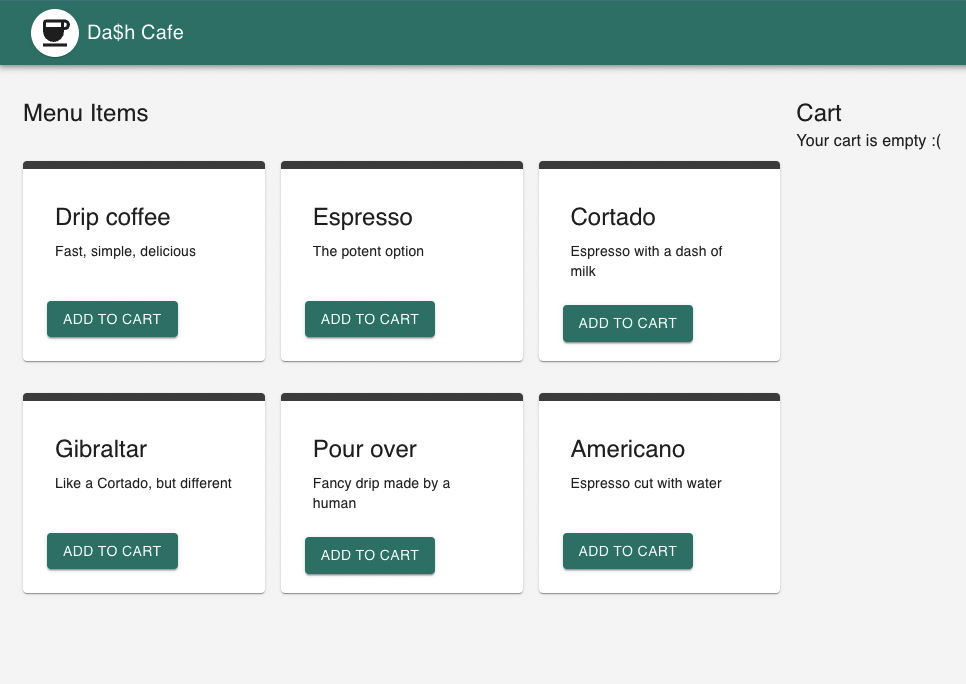
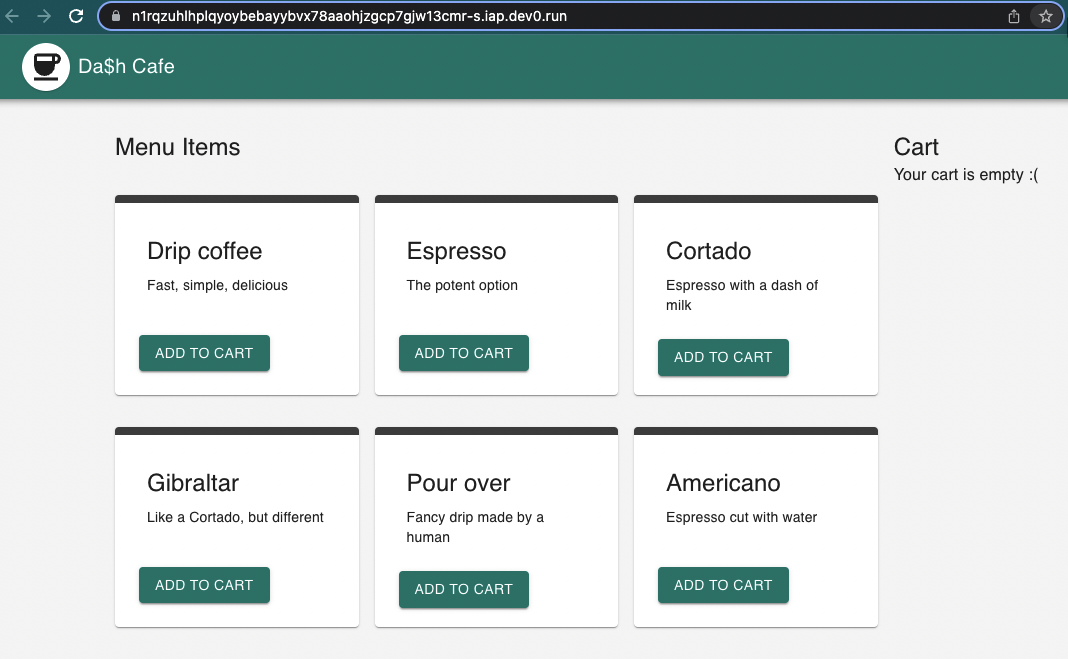
Update README directions, images, combine web client README

diff --git a/README.md b/README.md
@@ -1,5 +1,19 @@
 # DevZero Microservice Example
 
+  - [Architecture](#architecture)
+  - [Getting started](#getting-started)
+  - [Making changes](#making-changes)
+    - [Frontend service](#frontend-service)
+    - [Backend services (with Docker)](#backend-services-with-docker)
+      - [Databse](#databse)
+  - [Making requests to the API service](#making-requests-to-the-api-service)
+    - [Getting all menu items](#getting-all-menu-items)
+      - [Creating an order](#creating-an-order)
+      - [Service healthcheck](#service-healthcheck)
+  - [Local setup + running the backend service (without Docker)](#local-setup--running-the-backend-service-without-docker)
+  - [Test: automatically fetch all menu items, create an order](#test-automatically-fetch-all-menu-items-create-an-order)
+  - [Manually calling the service](#manually-calling-the-service)
+  
 ## Architecture
 - Next.js web application
 - Golang REST service
@@ -9,38 +23,58 @@
 ## Getting started
 If you created an environment from DevZero's Microservice Template, all of the services will automatically be up and running!
 
-1. Click the "Connect in browser" button to launch the codeserver, a browser-based Visual Studio Code app. You can make changes to the service and view logs here:
-
-    ![environment connect in browser](/images/connect-in-browser.png)
+To view and share the service, follow these steps to create a Share Link:
 
 
-2. Note the the hostname of your service:
+1. Click the "Open in web browser" button to launch the codeserver, a browser-based Visual Studio Code app. You can make changes to the service and view logs here:
 
-    ![hostname](/images/hostname.png)
-
-
-3. In a new tab, go to the `/proxy/3000/` route on the host, e.g.:
-
-    ![web app url](/images/web-app-url.png)
+    ![environment open in web browser](/images/open-in-web-browser.png)
 
 
-4. You should see the demo web app, Da$h Cafe, which will allow you to add items to the cart and place an order:
+2. Click on the dropdown and select 'Share':
+
+    ![share dropdown](/images/share-link-dropdown.png)
+
+
+3. Select port 3000 (where the web app is listening), then click 'Create share link':
+
+    ![create share link for port 3000](/images/create-share-link.png)
+
+
+4. You can now see the demo web app, Da$h Cafe, which will allow you to add items to the cart and place an order:
 
     ![dash cafe demo app](/images/dash-cafe.png)
 
 
-5. Making changes
-    - **Frontend:** changes you make the web client will automatically be re-compiled and immediately visible in the browser. 
-    - **Backend:** changes to the backend services can also be made here by simply running `docker-compose up` in the main directory. 
-    - **Database:** log into Adminer `<hostname>/proxy/8080` (user: admin, password: password, database: backend_service) to change database records
+## Making changes
+### Frontend service
+All code for the frontend lives in the `/web-client` directory. The Next.js app is already running in development mode in the backgroun via [forever](https://github.com/foreversd/forever). Changes you make the web client will automatically be re-compiled and immediately visible in the browser.
 
-## Manual steps for running all services
-
-### 1. Backend: build and start the services (requires docker)
 ```
-`docker-compose build && docker-compose up`
+devzero@ip-10-0-112-234:~/projects/microservice-example/web-client$ forever list
+info:    Forever processes running
+data:        uid  command       script                     forever pid   id logfile                         uptime                  
+data:    [0] UFVW /usr/bin/node node_modules/.bin/next dev 88084   89558    /home/devzero/.forever/UFVW.log 0:0:6:32.69900000000001 
+```
 
-# the server will start after the DB is up + running
+You can tail the logs from the `/web-client` directory with:
+```
+tail -f stdout.txt
+```
+
+You can also restart (or stop) the service using forever:
+```
+forever (restart|stop) 0
+```
+
+Or with npm:
+```
+npm run dev
+```
+
+### Backend services (with Docker)
+To rebuild and run the backend services, run `make docker`. The backend server and API will start after the DB is up + running.
+```
 $ docker ps
 CONTAINER ID   IMAGE                         COMMAND                  CREATED          STATUS                    PORTS                               NAMES
 e207881b1113   microservice-example_api      "/app/api"               19 seconds ago   Up 19 seconds (healthy)   0.0.0.0:8333->8333/tcp              microservice-example_api_1
@@ -48,23 +82,17 @@ e207881b1113   microservice-example_api      "/app/api"               19 seconds
 a93d72fb09b5   mysql                         "docker-entrypoint.s…"   48 seconds ago   Up 47 seconds (healthy)   0.0.0.0:3306->3306/tcp, 33060/tcp   db
 5173f6d53321   adminer                       "entrypoint.sh docke…"   48 seconds ago   Up 47 seconds             0.0.0.0:8080->8080/tcp              microservice-example_adminer_1
 ```
-
-### 2. Frontend
-```
-cd microservice-example/web-client/
-npm install
-npm run dev
-```
+#### Databse 
+Log into Adminer `<hostname>/proxy/8080` (user: admin, password: password, database: backend_service) to view and change database records
 
 ## Making requests to the API service
-
 ### Getting all menu items
 
 ```
 curl 'localhost:8333/menu-items'
 ```
 
-### Creating an order
+#### Creating an order
 
 ```
 curl -X POST 'localhost:8333/orders' \
@@ -81,7 +109,7 @@ curl -X POST 'localhost:8333/orders' \
 ], "customerName": "Sharon"}'
 ```
 
-### Service healthcheck
+#### Service healthcheck
 
 ```
 curl  "localhost:8333/healthcheck" | jq .
@@ -90,6 +118,7 @@ curl  "localhost:8333/healthcheck" | jq .
   "status": "OK"
 }
 ```
+-----
 
 ## Local setup + running the backend service (without Docker)
 
@@ -100,14 +129,14 @@ cd backend
 make serve
 ```
 
-## automatically fetch all menu items, create an order
+## Test: automatically fetch all menu items, create an order
 
 ```
 # new window
 make run
 ```
 
-## manually calling the service
+## Manually calling the service
 
 ```
 # install grpcurl
@@ -119,30 +148,3 @@ grpcurl -plaintext 127.0.0.1:9090 v1.OrderService.ReadAllMenuItems
 # create a new order
 grpcurl -d '{"orderItems": {"menuItemID": 6, "quantity": 2}}' -plaintext 127.0.0.1:9090 v1.OrderService.CreateOrder
 ```
-
-## Front End Stuff
-The Next.js app is already running in development mode in the backgroun via [forever](https://github.com/foreversd/forever):
-```
-devzero@ip-10-0-112-234:~/projects/microservice-example/web-client$ forever list
-info:    Forever processes running
-data:        uid  command       script                     forever pid   id logfile                         uptime                  
-data:    [0] UFVW /usr/bin/node node_modules/.bin/next dev 88084   89558    /home/devzero/.forever/UFVW.log 0:0:6:32.69900000000001 
-```
-
-Any changes you make will be detected + recompiled just as if you had run `npm run dev` manually.
-You can tail the logs from the `/web-client` directory with:
-```
-tail -f stdout.txt
-```
-
-You can also restart (or stop) the service using forever:
-```
-forever (restart|stop) 0
-```
-
-To start the service again, from the `/web-client` folder run:
-```
-forever node_modules/.bin/next dev > stdout.txt 2> stderr.txt &
-```
-
-For more info on manually running the web-client, check out this [README](./web-client/README.md)!
